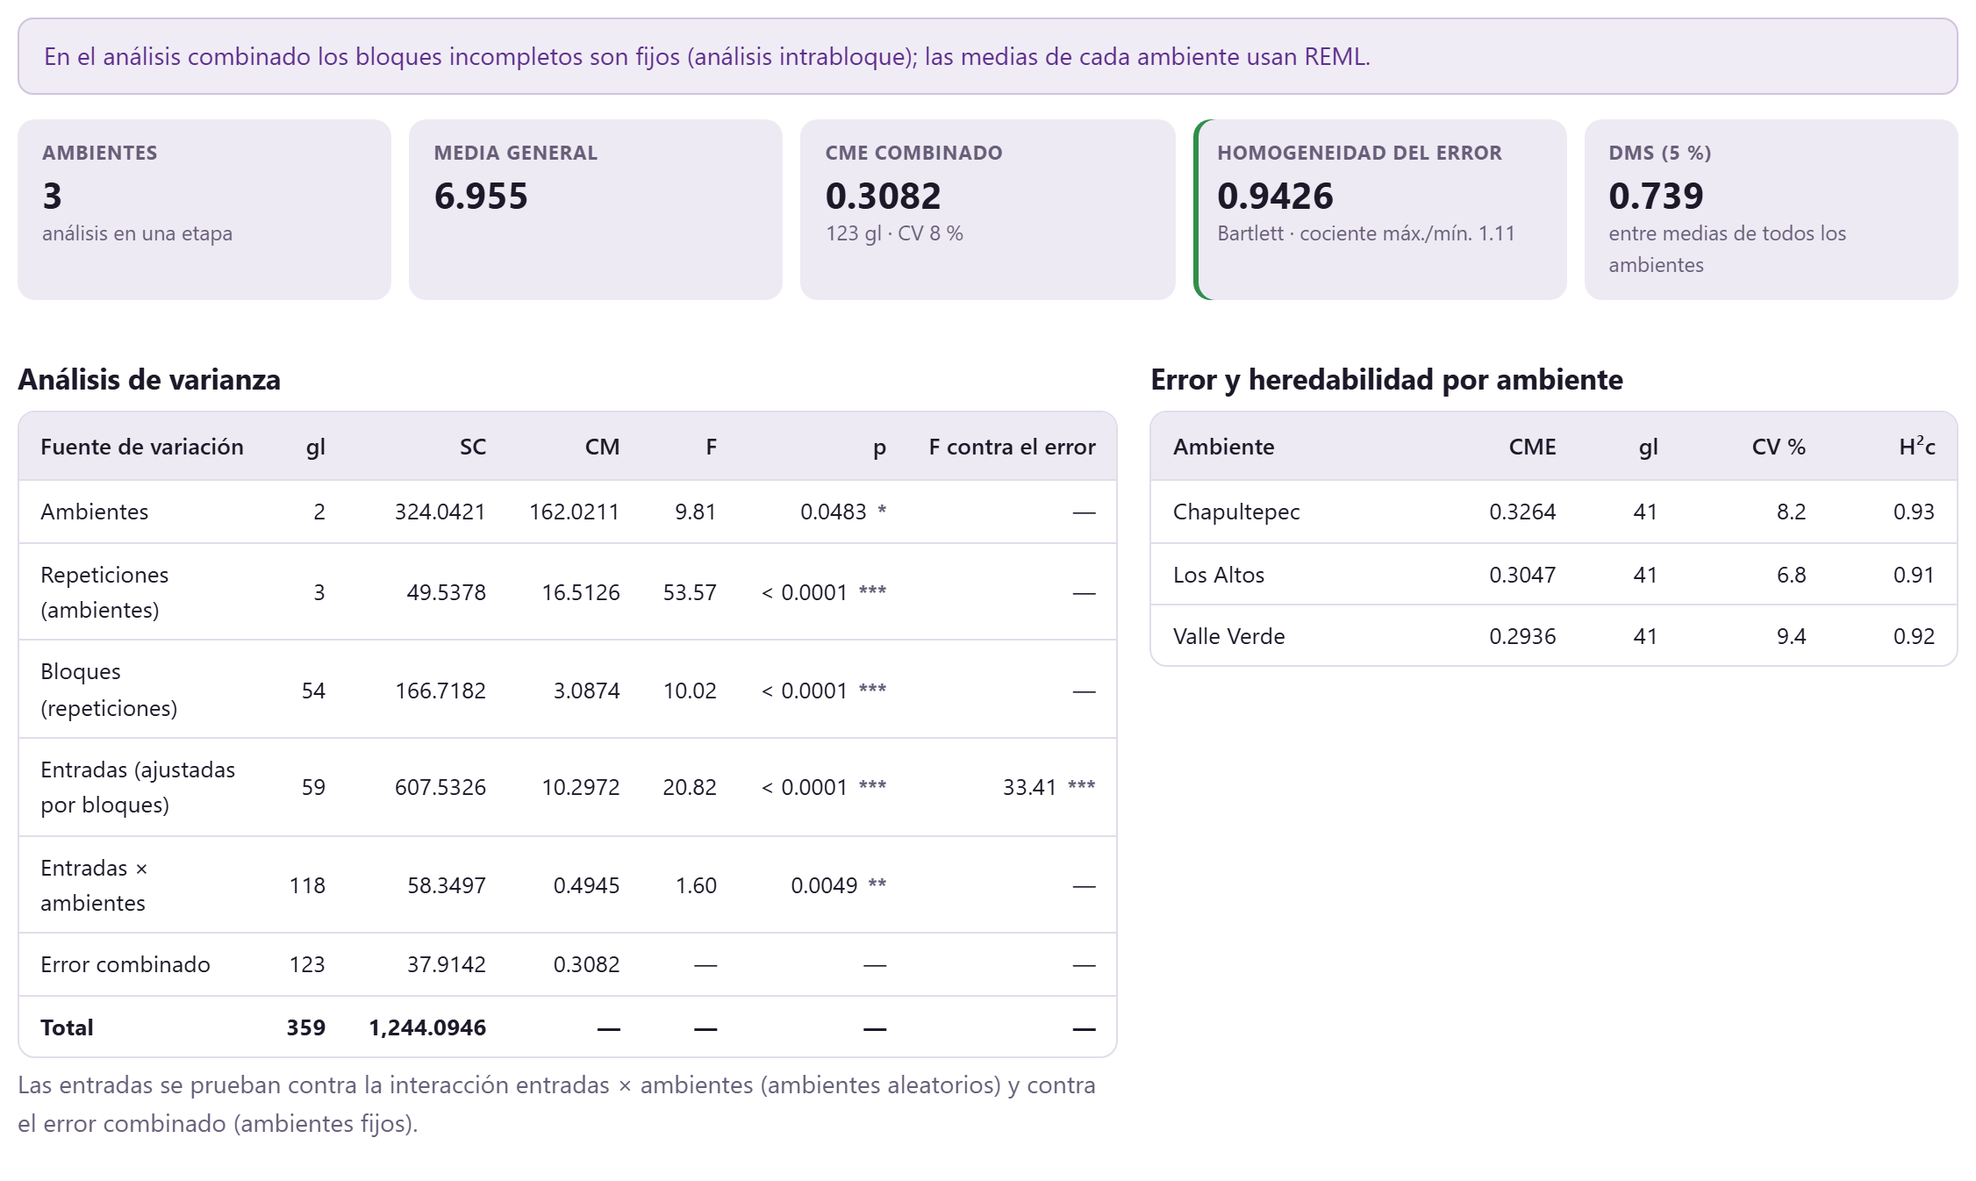
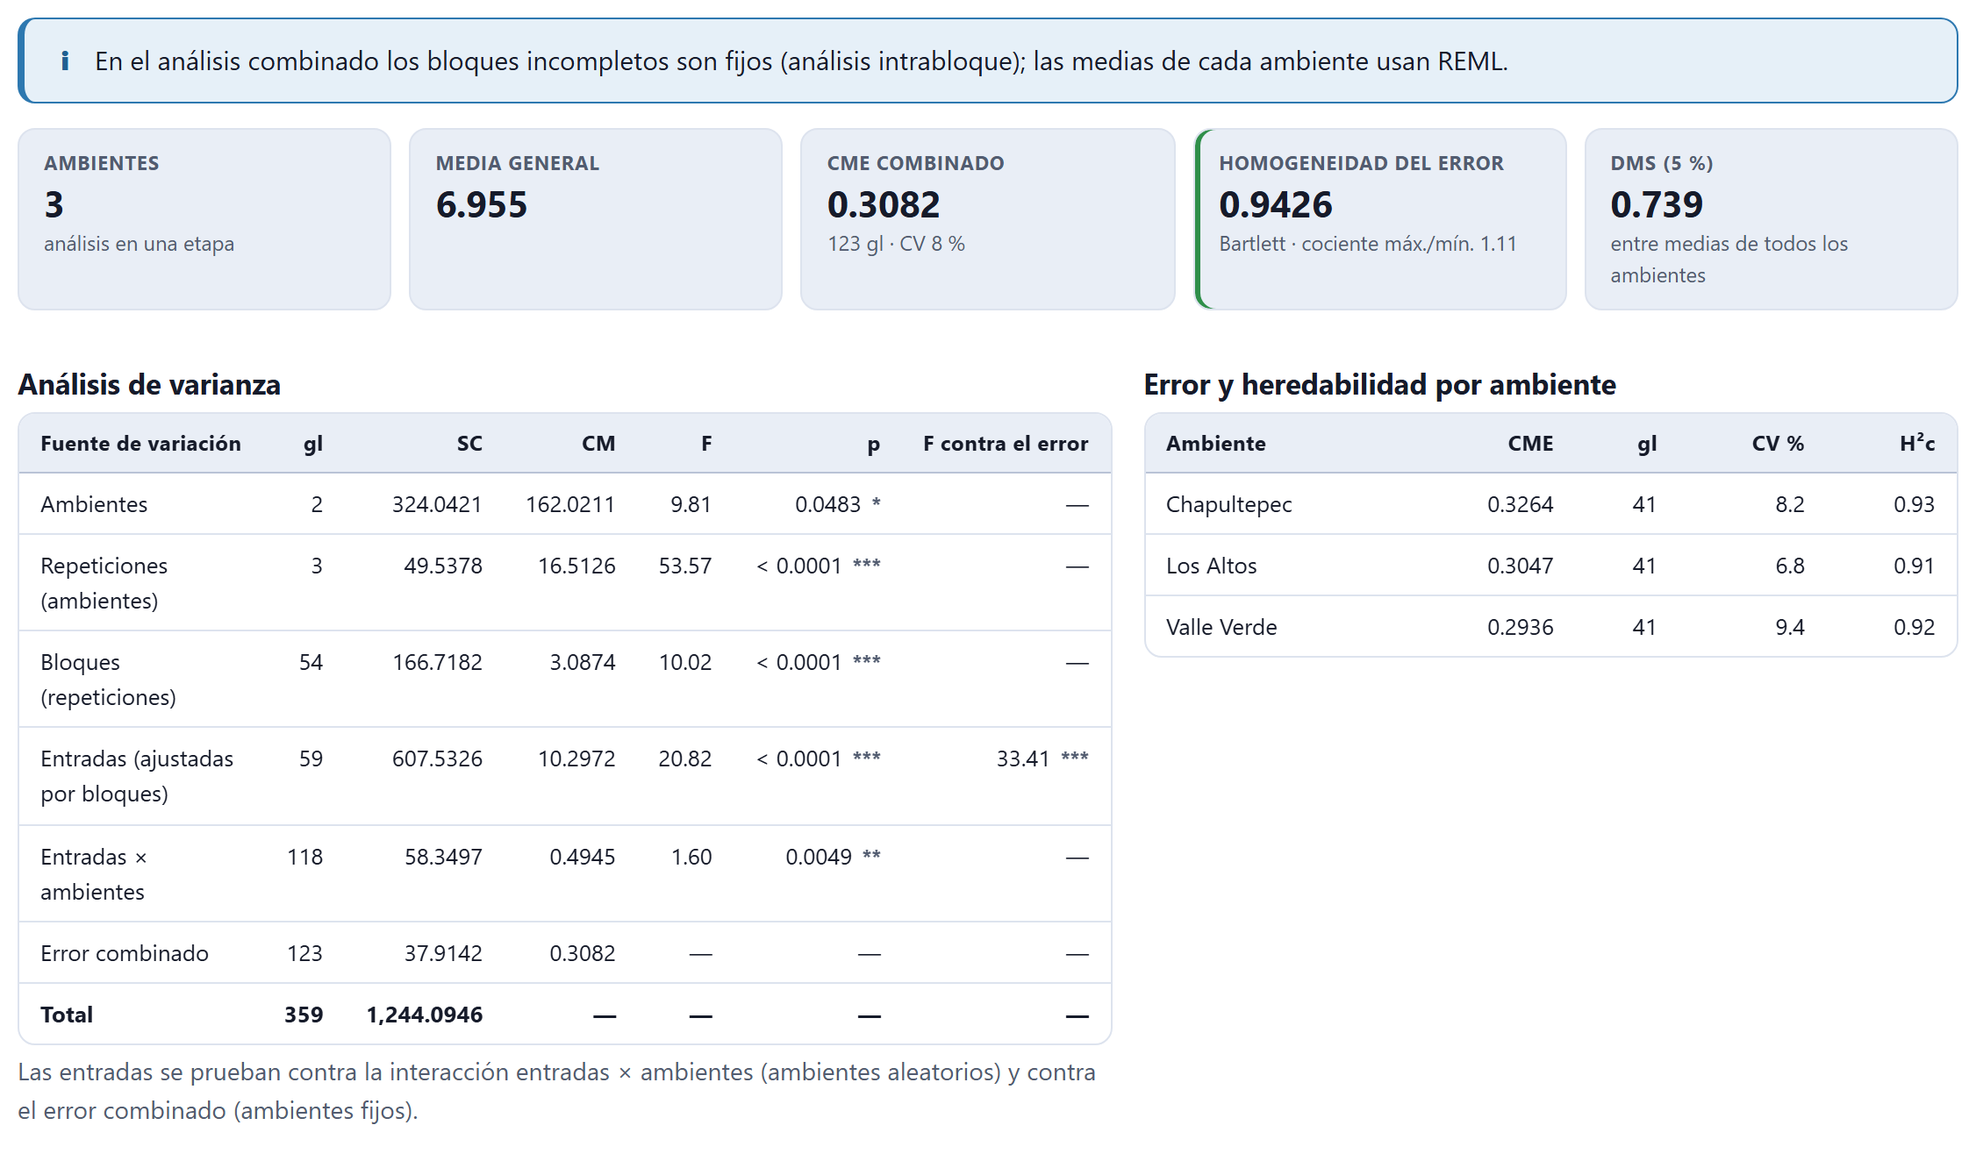
Manual: capítulos 2 y 3 en inglés con la interfaz corregida y capturas rehechas
Textos de la app con ortografía estadounidense, LSD (5 %), hojas «Field book» y «Crossing block», lista de bloques a la izquierda; capturas inglesas rehechas y españolas con porcentajes o dos tablas (b2-semilla, b2-potencia, b2-curva, b3-analisis, b3-combinado); b3-combinado ya no fija las columnas.

diff --git a/manual/en/03-bloque3.html b/manual/en/03-bloque3.html
@@ -227,7 +227,7 @@
 
   <!-- ====================================================================== 3.4 -->
   <h2 id="s3-4"><span class="num">3.4</span>The recognized design</h2>
-  <p>The card <span class="ui">3 · Recognised design</span> says which experiment the app believes you have. Six tiles sum it up: the mating design with its degree of confidence (high, medium or low; <i>declared</i> if it came in the declaration line and <i>chosen</i> if you changed it yourself), the entries with their parents and checks, the field design, the environments, the replicates with the plots per environment and the traits. Below, a list explains <b>why</b> each conclusion was reached and points out what is missing or left over.</p>
+  <p>The card <span class="ui">3 · Recognized design</span> says which experiment the app believes you have. Six tiles sum it up: the mating design with its degree of confidence (high, medium or low; <i>declared</i> if it came in the declaration line and <i>chosen</i> if you changed it yourself), the entries with their parents and checks, the field design, the environments, the replicates with the plots per environment and the traits. Below, a list explains <b>why</b> each conclusion was reached and points out what is missing or left over.</p>
 
   <h3>The mating design</h3>
   <p>The app checks the rules of Table 3.2 in order and keeps the first one that holds. In a diallel, the method depends on whether there are parents (at least half of them) and reciprocals (in at least half of the pairs): with both, Method 1; parents only, 2; reciprocals only, 3; neither, 4.</p>
@@ -276,12 +276,12 @@
   <p>If something does not match your experiment, change it in the menus <span class="ui">Mating design</span> (automatic, Griffing Methods 1 to 4, partial diallel, the three North Carolina designs, triple test cross, line × tester, generation means or genotype trial) and <span class="ui">Field design</span> (automatic or one of the seven designs). The change is marked as <i>chosen</i> and everything that follows is recomputed. Typical cases: a North Carolina II that is really a I because each male has its own females, or a trial with row and column that you want to analyze as rows and columns.</p>
 
   <h3>Crosses present, missing entries and recognized entries</h3>
-  <p>The figure <span class="ui">Crosses present in the data</span> draws the table of the design: female × male in diallels and the North Carolina II, male × female in the I, F<sub>2</sub> plant × tester in the III and the triple test cross, line × tester in the line × tester. Each cell is colored by the number of plots or, with <span class="ui">Colour by</span>, by the mean of the trait; parents carry a border, and a cross that the design expects but is not in the data is marked with an ×, with the legend <i>missing from the data</i>.</p>
+  <p>The figure <span class="ui">Crosses present in the data</span> draws the table of the design: female × male in diallels and the North Carolina II, male × female in the I, F<sub>2</sub> plant × tester in the III and the triple test cross, line × tester in the line × tester. Each cell is colored by the number of plots or, with <span class="ui">Color by</span>, by the mean of the trait; parents carry a border, and a cross that the design expects but is not in the data is marked with an ×, with the legend <i>missing from the data</i>.</p>
   <figure class="chica">
     <div class="marco"><img src="../img/en/b3-presencia.png" alt="The female by male table with the crosses present in Method 2"></div>
     <figcaption><b>Figure 3.7.</b> The crosses present in the α-lattice: Method 2 fills the diagonal (parents, with a border) and the upper triangle. Each cross is in 6 plots: 2 replicates × 3 locations.</figcaption>
   </figure>
-  <p>If the design is incomplete, the box <span class="ui">Entries missing from the design</span> lists the missing crosses, parents, reciprocals or generations. At the end, <span class="ui">Recognised entries</span> (folded) lists each entry with its female, its male, its type and its number of records: it is the quickest way to check that the pedigree was read correctly.</p>
+  <p>If the design is incomplete, the box <span class="ui">Entries missing from the design</span> lists the missing crosses, parents, reciprocals or generations. At the end, <span class="ui">Recognized entries</span> (folded) lists each entry with its female, its male, its type and its number of records: it is the quickest way to check that the pedigree was read correctly.</p>
 
   <h3>What is recognized in the examples</h3>
   <p>Table 3.4 serves as a check of the recognition and as a guide to choosing an example similar to your data.</p>
@@ -322,7 +322,7 @@
     <figcaption><b>Figure 3.8.</b> Card 4 with Hayman’s diallel (flowering time). The red dots are the two plots of D × A flagged as outliers; the red frame on the map marks their position, the same in both replicates.</figcaption>
   </figure>
 
-  <p>The <b>distribution by environment</b> is a box plot with the observations on top (they can be hidden) and a diamond at the mean; the values flagged as outliers are painted red. The <b>field map</b> puts each plot in its place: by row and column if the data have them and, if not, in the order of the rows within each replicate. The menu <span class="ui">Colour</span> switches between the <span class="ui">observed value</span> and the <span class="ui">standardised residual</span> of the design model; the latter, on a diverging scale, reveals patches in the land (clustered residuals of the same sign) that the blocks did not absorb. Suspect plots carry a red border in both.</p>
+  <p>The <b>distribution by environment</b> is a box plot with the observations on top (they can be hidden) and a diamond at the mean; the values flagged as outliers are painted red. The <b>field map</b> puts each plot in its place: by row and column if the data have them and, if not, in the order of the rows within each replicate. The menu <span class="ui">Color</span> switches between the <span class="ui">observed value</span> and the <span class="ui">standardized residual</span> of the design model; the latter, on a diverging scale, reveals patches in the land (clustered residuals of the same sign) that the blocks did not absorb. Suspect plots carry a red border in both.</p>
 
   <h3>Outliers</h3>
   <p>Each observation is compared with what the design model predicts (for example, replicate + entry in complete blocks), by means of its externally studentized residual. Two levels: <b>outlier</b>, if the Bonferroni test gives <i>p</i> &lt; 0.05, and <b>check</b>, if |<i>t</i>| ≥ 3.5 without reaching that threshold. The table gives the environment, the entry, the replicate or block, the value, the fitted value, <i>t</i>, <i>p</i> and the rows of the file where it is.</p>
@@ -365,7 +365,7 @@
   </figure>
 
   <h3>The tiles</h3>
-  <p>The tile <span class="ui">Model</span> gives the design and how the means were obtained; <span class="ui">Grand mean</span>, how many plots (or plants, or means) went in. The <span class="ui">Coefficient of variation</span> comes with the error mean square (MSE) and its degrees of freedom; the <span class="ui">LSD (5%)</span>, with the average standard error of a difference between two means. <span class="ui">Trial heritability</span> gives that of Cullis, Smith and Coombes (2006) and the standard one. In designs with incomplete blocks there are also <span class="ui">Efficiency vs complete blocks</span> and the block variance (or those of rows and columns) with that of the error. The colored edge of some tiles sums up the reading: green if the value is good, amber if it is acceptable and red if it is poor.</p>
+  <p>The tile <span class="ui">Model</span> gives the design and how the means were obtained; <span class="ui">Grand mean</span>, how many plots (or plants, or means) went in. The <span class="ui">Coefficient of variation</span> comes with the error mean square (MSE) and its degrees of freedom; the <span class="ui">LSD (5&nbsp;%)</span>, with the average standard error of a difference between two means. <span class="ui">Trial heritability</span> gives that of Cullis, Smith and Coombes (2006) and the standard one. In designs with incomplete blocks there are also <span class="ui">Efficiency vs complete blocks</span> and the block variance (or those of rows and columns) with that of the error. The colored edge of some tiles sums up the reading: green if the value is good, amber if it is acceptable and red if it is poor.</p>
   <p>At Chapultepec, the 120 plots give a mean of 6.961 t/ha, a CV of 8.2% (MSE = 0.3264 with 41 df) and an LSD of 1.255. The entries, adjusted for blocks, differ clearly (<i>F</i> = 11.92 with 59 and 41 df). The estimated block variance, 0.1462, and that of the error, 0.3254, are close to the values used in the simulation (0.20 and 0.36); with only 20 blocks per location, the former is imprecise. The efficiency of 119% means that with complete blocks about 19% more replicates would have been needed to compare the entries with the same precision; without recovering the inter-block information (intra-block analysis) the gain would be only 4%.</p>
 
   <div class="caja teoria">
@@ -451,9 +451,9 @@
       <tr><td><span class="ui">Cleaned data (.csv)</span></td><td>The original table with a column <i>Excluded</i> (1 if the observation was left out)</td></tr>
     </tbody>
   </table>
-  <p>In addition, at the end of card 5, <span class="ui">How is each design analysed?</span> sums up the methods of Sections 3.5 to 3.7 with their references, ready for the materials and methods section of an article; the report of Block 12 includes them in full prose.</p>
+  <p>In addition, at the end of card 5, <span class="ui">How is each design analyzed?</span> sums up the methods of Sections 3.5 to 3.7 with their references, ready for the materials and methods section of an article; the report of Block 12 includes them in full prose.</p>
 
-  <p>The button <span class="ui">Continue</span> at the end changes according to the recognized mating design (Table 3.8); in the example it reads <span class="ui">Continue: Griffing →</span>. <span class="ui">← Plan</span> goes back to Block 2. The other blocks are always one click away in the top bar.</p>
+  <p>The button <span class="ui">Continue</span> at the end changes according to the recognized mating design (Table 3.8); in the example it reads <span class="ui">Continue: Griffing →</span>. <span class="ui">← Plan</span> goes back to Block 2. The other blocks are always one click away in the list of blocks on the left.</p>
   <table class="compacta" style="width:84%">
     <caption><b>Table 3.8.</b> Where the button <span class="ui">Continue</span> leads.</caption>
     <thead><tr><th>Recognized design</th><th style="width:40%">Next block</th></tr></thead>
@@ -472,7 +472,7 @@
     <div class="caja-t"><span class="ico">✓</span>Rule of thumb · before moving on to the genetic blocks</div>
     <table class="compacta"><tbody>
       <tr><td style="width:46%"><b>If</b> a column was left with a wrong role or as <span class="ui">Ignore</span>…</td><td><b>then</b> correct it in card 2: everything else depends on it.</td></tr>
-      <tr><td><b>If</b> the mating design has medium or low confidence…</td><td><b>then</b> read the reasons and check <span class="ui">Recognised entries</span> and the figure of crosses present.</td></tr>
+      <tr><td><b>If</b> the mating design has medium or low confidence…</td><td><b>then</b> read the reasons and check <span class="ui">Recognized entries</span> and the figure of crosses present.</td></tr>
       <tr><td><b>If</b> there are outliers…</td><td><b>then</b> compare them with the field book and exclude only proven errors.</td></tr>
       <tr><td><b>If</b> normality or additivity fail…</td><td><b>then</b> consider transforming the trait before loading it again.</td></tr>
     </tbody></table>

diff --git a/manual/en/02-bloque2.html b/manual/en/02-bloque2.html
@@ -162,7 +162,7 @@
   <p>The full list of crosses and entries is folded at the end of the card, in <span class="ui">List of crosses and entries</span>, with the number, code, female, male and type of each one, and it is downloaded with <span class="ui">⬇ CSV</span>.</p>
 
   <h3>How many plants per generation</h3>
-  <p>In the generations design each generation is evaluated with a number of plants. The segregating generations vary more than the parents and the F<sub>1</sub>, so with the same number of plants their means are more or less precise according to their variance. The button <span class="ui">Share out to equalise precision</span> distributes a total of plants in proportion to the expected variance of each generation, so that all means have the same standard error (Kearsey, 1980).</p>
+  <p>In the generations design each generation is evaluated with a number of plants. The segregating generations vary more than the parents and the F<sub>1</sub>, so with the same number of plants their means are more or less precise according to their variance. The button <span class="ui">Share out to equalize precision</span> distributes a total of plants in proportion to the expected variance of each generation, so that all means have the same standard error (Kearsey, 1980).</p>
   <div class="formula">V(P<sub>1</sub>) = V(P<sub>2</sub>) = V(F<sub>1</sub>) = E &nbsp;·&nbsp; V(F<sub>2</sub>) = ½D + ¼H + E &nbsp;·&nbsp; V(BC<sub>1</sub>) = V(BC<sub>2</sub>) = ¼D + ¼H + E<br>with D and H derived from the heritability in the F<sub>2</sub> and from the ratio (H/D)<sup>½</sup> you give</div>
   <p>With the default values (600 plants, H² = 0.5 in the F<sub>2</sub> and (H/D)<sup>½</sup> = 0.8) the allocation is 73 plants of each parent and of the F<sub>1</sub>, 146 of F<sub>2</sub> and 118 of each backcross, and the standard errors of the six means fall between 0.079 and 0.080. With the initial allocation of 30 and 100 plants they ranged from 0.086 to 0.124 (Section 2.7).</p>
 
@@ -223,9 +223,9 @@
     <caption><b>Table 2.5.</b> The four field designs. <i>v</i>: entries; <i>r</i>: replicates; <i>s</i>: blocks per replicate; <i>b</i>: blocks and <i>c</i>: checks of the augmented design.</caption>
     <thead><tr><th style="width:24%">Design</th><th>How it is built</th><th style="width:30%">Error degrees of freedom</th></tr></thead>
     <tbody>
-      <tr><td><span class="ui">Randomised complete blocks</span></td><td>Each replicate is a block with all the entries</td><td>(<i>r</i> − 1)(<i>v</i> − 1)</td></tr>
+      <tr><td><span class="ui">Randomized complete blocks</span></td><td>Each replicate is a block with all the entries</td><td>(<i>r</i> − 1)(<i>v</i> − 1)</td></tr>
       <tr><td><span class="ui">Alpha lattice (incomplete blocks)</span></td><td>Each replicate is divided into <i>s</i> blocks of <i>k</i> plots (Patterson and Williams, 1976)</td><td><i>vr</i> − 1 − (<i>v</i> − 1) − (<i>r</i> − 1) − <i>r</i>(<i>s</i> − 1)</td></tr>
-      <tr><td><span class="ui">Completely randomised</span></td><td>All the plots are randomized together</td><td><i>v</i>(<i>r</i> − 1)</td></tr>
+      <tr><td><span class="ui">Completely randomized</span></td><td>All the plots are randomized together</td><td><i>v</i>(<i>r</i> − 1)</td></tr>
       <tr><td><span class="ui">Augmented (repeated checks)</span></td><td>The checks in every block; the new entries only once (Federer, 1956)</td><td>(<i>b</i> − 1)(<i>c</i> − 1)</td></tr>
     </tbody>
   </table>
@@ -309,7 +309,7 @@
   <p>Plot 6 already belongs to replicate 2 and lies in column 7: with the replicates side by side, the first field row crosses the three replicates, and column 6 is the alley between them.</p>
   <h3>The downloads</h3>
   <ul>
-    <li><span class="ui">⬇ Workbook (.xlsx)</span> saves four sheets: <b>FieldBook</b>; <b>Entries</b>, with the seed and pollinations of each one; <b>CrossingBlock</b>, with the plants of each parent; and <b>Design</b>, with the mating and field designs, the replicates, the locations, the random seed, the error degrees of freedom, the efficiency factor and its bound (in the α-lattice) and the date.</li>
+    <li><span class="ui">⬇ Workbook (.xlsx)</span> saves four sheets: <b>Field book</b>; <b>Entries</b>, with the seed and pollinations of each one; <b>Crossing block</b>, with the plants of each parent; and <b>Design</b>, with the mating and field designs, the replicates, the locations, the random seed, the error degrees of freedom, the efficiency factor and its bound (in the α-lattice) and the date.</li>
     <li><span class="ui">⬇ CSV</span> saves the field book only, as UTF-8 text, which spreadsheets open with the accents right.</li>
   </ul>
   <p>With the checkbox <span class="ui">Include the line that describes the design</span> ticked, the first line of both files declares the plan. In the example it reads:</p>
@@ -328,7 +328,7 @@
       <tr><td><span class="ui">Additive CV, σA/mean (%)</span></td><td class="n">10</td><td>Size of the expected additive variation, relative to the mean</td></tr>
       <tr><td><span class="ui">Dominance CV, σD/mean (%)</span></td><td class="n">8</td><td>The same for dominance</td></tr>
       <tr><td><span class="ui">Parental inbreeding (F)</span></td><td class="n">1</td><td>1 for lines; 0.875, 0.75 or 0.5 for S<sub>3</sub>, S<sub>2</sub> or S<sub>1</sub>; 0 for non-inbred plants</td></tr>
-      <tr><td>α · <span class="ui">Target power</span></td><td class="n">0.05 · 80%</td><td>Significance level and power sought</td></tr>
+      <tr><td>α · <span class="ui">Target power</span></td><td class="n">0.05 · 80&nbsp;%</td><td>Significance level and power sought</td></tr>
       <tr><td><span class="ui">Power curve against</span></td><td class="n">parents</td><td>Number of parents (or families) or number of replicates</td></tr>
     </tbody>
   </table>
@@ -404,7 +404,7 @@
 
   <h3>Generations</h3>
   <table class="compacta" style="width:86%">
-    <caption><b>Table 2.13.</b> Standard error of each generation mean, with the initial allocation of plants and with that of the button <span class="ui">Share out to equalise precision</span> (600 plants per location).</caption>
+    <caption><b>Table 2.13.</b> Standard error of each generation mean, with the initial allocation of plants and with that of the button <span class="ui">Share out to equalize precision</span> (600 plants per location).</caption>
     <thead><tr><th>Generation</th><th class="n">Initial plants</th><th class="n">SE</th><th class="n">Plants shared out</th><th class="n">SE</th></tr></thead>
     <tbody>
       <tr><td>P<sub>1</sub>, P<sub>2</sub>, F<sub>1</sub></td><td class="n">30</td><td class="n">0.124</td><td class="n">73</td><td class="n">0.079</td></tr>

diff --git a/manual/herramientas/recetas/b3-combinado.js b/manual/herramientas/recetas/b3-combinado.js
@@ -7,8 +7,6 @@
   const cargar = async id => { goStep(3); await W(500); document.querySelector("[data-fam=\"all\"]").click(); await W(150); document.querySelector(`[data-ex="${id}"]`).click(); for (let k = 0; k < 80; k++) { await W(250); if (B3.results.size && !document.getElementById("b3Analysis").classList.contains("is-busy")) break; } await W(800); };
   await cargar("simAlpha");
   const c = document.getElementById("b3Analysis");
-  /* the combined ANOVA has a seventh column (F against the error): give the left table the room it needs, as in the earlier layout */
-  c.querySelector(".two-col").style.gridTemplateColumns = "1.36fr 1fr"; await W(300);
   irA(c); await W(400);
   caja([document.getElementById("b3AnaTiles"), c.querySelector(".two-col"), document.getElementById("b3AnaMsg")], 10);
 })()
